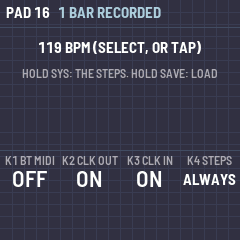
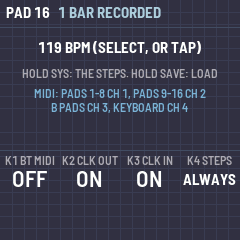
0.32: MIDI out on four fixed channels (pads 1-8 on 1, 9-16 on 2, B pads on 3, keyboard on 4); MIDI page gone, FX free
Claude-Session: https://claude.ai/code/session_011auXBbJuCRdHVG1fENKT8m

Changed region(s): [[0.1167, 0.35, 0.875, 0.4667]]

diff --git a/app/app.c b/app/app.c
@@ -4,24 +4,24 @@
  * As MPS-16 ver WEB's SEED, one job a button. The 16 white keys (A pads): 1-8 your key's chords, 9-16 progressions.
  * The first 7 black keys (B pads): the notes of the key, lit by the chord you played (the bass bright). The last 4
  * (C pads): BASS, NO BASS, NO ROOT, TAP. HOME (held: SHIFT), EDIT pick notes, SEL the library, ENV pad edit, LFO
- * LOCK, FX MIDI, SYS setup (held: COACH), PLAY stop (SHIFT: clear the pads), ARP UNDO, SEQ LATCH, REC, SAVE (held:
- * LOAD), OCT- / OCT+ the keyboard's octave. MIDI out over USB and Bluetooth, five sections on their own channels,
- * any pad on its own, MIDI clock out and in.
+ * LOCK, SYS setup (held: COACH), PLAY stop (SHIFT: clear the pads), ARP UNDO, SEQ LATCH, REC, SAVE (held:
+ * LOAD), OCT- / OCT+ the keyboard's octave. FX: free. MIDI out over USB and Bluetooth on four fixed channels: pads
+ * 1-8 on 1, pads 9-16 on 2, the B pads on 3, the keyboard on 4. MIDI clock out and in.
  *
  * Part of the unity build (device/unity.c, host/plat_host.c), after the platform: gfx.c and announce.c are in
  * scope. */
 #include "fastmath.h"
 
 /* ================================================================ settings === */
-#define SET_MAGIC 0x32444553u            /* "SED2" */
+#define SET_MAGIC 0x33444553u            /* "SED3" */
 enum { BM_BASS, BM_NOBASS, BM_NOROOT, BM_N };
 enum { PL_CHORD, PL_STRUM, PL_ARP, PL_STABS, PL_N };
 enum { CO_OFF, CO_FIRST, CO_ALWAYS, CO_N };
-/* the MIDI sections, as the web's: pads 1-8, pads 9-16, the B pads, the keys in PICK NOTES, LIB's previews */
-enum { MS_CHORDS, MS_PROGS, MS_BPADS, MS_PICK, MS_LIB, MS_N };
-#define CH_OFF 16u                       /* a channel: 0 .. 15, or off (no MIDI out) */
-#define CH_NONE 0xFFu                    /* a pad's own channel: none, its section's */
-#define NOVR 23u                         /* own channels: the 16 A pads, the 7 B pads */
+/* MIDI out, fixed: pads 1-8 on 1, pads 9-16 on 2, the B pads on 3, the keyboard (PICK NOTES, LIB) on 4 */
+#define CH_PADS1 0u
+#define CH_PADS2 1u
+#define CH_BPADS 2u
+#define CH_KEYS 3u
 typedef struct {
     uint32_t magic;
     uint8_t root;                        /* 0 = C .. 11 = B */
@@ -36,8 +36,6 @@ typedef struct {
     uint8_t coach, coach_seen, coach_set;   /* COACH: CO_*, been through once, the choice made */
     uint8_t ble;                         /* Bluetooth MIDI on */
     uint8_t clk_out, clk_in;             /* MIDI clock: sent at the BPM; followed when it comes in */
-    uint8_t ch[MS_N];                    /* each section's channel, 0 .. 15 or CH_OFF */
-    uint8_t ovr[NOVR];                   /* a pad's own channel, or CH_NONE */
     uint8_t rsv[3];
 } settings_t;
 static settings_t set;
@@ -45,7 +43,6 @@ static uint8_t set_dirty;
 
 static void settings_defaults(void)
 {
-    uint32_t i;
     __builtin_memset(&set, 0, sizeof set);
     set.magic = SET_MAGIC;
     set.root = 0;                        /* C major */
@@ -59,13 +56,6 @@ static void settings_defaults(void)
     set.ble = 1;
     set.clk_out = 1;
     set.clk_in = 1;
-    set.ch[MS_CHORDS] = 0;               /* chords on 1, progressions on 2: two synths if you like */
-    set.ch[MS_PROGS] = 1;
-    set.ch[MS_BPADS] = 2;
-    set.ch[MS_PICK] = 3;
-    set.ch[MS_LIB] = 3;
-    for (i = 0; i < NOVR; i++)
-        set.ovr[i] = CH_NONE;
 }
 
 /* ================================================================== theory === */
@@ -552,13 +542,11 @@ static void voice_off(uint32_t note)
 static volatile uint32_t tempo = 90;
 static volatile uint32_t clock_smp;      /* the audio clock, in samples */
 
-/* MIDI out, over USB and Bluetooth: ch CH_OFF sends nothing (the FM-1's own sound still plays) */
+/* MIDI out, over USB and Bluetooth */
 static uint32_t midi_to(void) { return TO_USB | (set.ble ? TO_BLE : 0u); }
 static uint8_t ch_last;
 static void midi_note(uint32_t on, uint32_t ch, uint32_t m, uint32_t v)
 {
-    if (ch >= CH_OFF)
-        return;
     ch_last = (uint8_t)ch;
     plat_midi_send((on ? 0x09u | (0x90u | ch) << 8 | m << 16 | v << 24 : 0x08u | (0x80u | ch) << 8 | m << 16),
                    midi_to());
@@ -573,11 +561,9 @@ static void out_off(uint32_t m, uint32_t ch)
     voice_off(m);
     midi_note(0, ch, m, 0);
 }
-static uint32_t pad_ch(uint32_t i)       /* an A pad's channel: its own, else its section's */
+static uint32_t pad_ch(uint32_t i)       /* pads 1-8 on 1, 9-16 on 2; LIB's preview (i = NPADS) on the keyboard's */
 {
-    if (i >= NPADS)
-        return set.ch[MS_LIB];
-    return set.ovr[i] != CH_NONE ? set.ovr[i] : set.ch[i < 8u ? MS_CHORDS : MS_PROGS];
+    return i >= NPADS ? CH_KEYS : i < 8u ? CH_PADS1 : CH_PADS2;
 }
 
 /* REC: what you play, from the main loop and from MIDI in, with the audio clock */
@@ -1055,7 +1041,7 @@ static void pad_release_rec(uint32_t i)   /* REC: a chord pad let go */
 }
 
 /* ======================================================================= UI === */
-enum { SCR_HOME, SCR_PICK, SCR_LIB, SCR_PAD, SCR_MIDI, SCR_SETUP };
+enum { SCR_HOME, SCR_PICK, SCR_LIB, SCR_PAD, SCR_SETUP };
 enum { CS_NONE, CS_CHOOSE, CS_NOTES, CS_SCALE, CS_PADS, CS_BASS, CS_SHAPE, CS_CPADS, CS_DONE };
 enum { RS_OFF, RS_PICK, RS_COUNT, RS_REC };
 static struct {
@@ -1070,11 +1056,10 @@ static struct {
     uint32_t co_at, boot_at;
     uint8_t rs, rpad;                    /* REC: the state, the pad it records into */
     uint32_t r_t0, r_click;              /* REC: the take's start (samples), the next click (samples) */
-    int32_t m_sel;                       /* MIDI: the pad or key picked for its own channel (0-15 A, 16-22 B), -1 */
     uint32_t tap[4];                     /* TAP: the last taps */
     uint8_t tap_n;
     uint8_t lib_t, lib_sel;              /* LIB: the type shown (NCTYPES: the progressions), the pick */
-} ui = {.pad = -1, .m_sel = -1, .lib_t = 1};
+} ui = {.pad = -1, .lib_t = 1};
 static uint32_t btn_now;                 /* the buttons held this frame */
 static int shift(void) { return (int)(btn_now >> B_HOME & 1u); }   /* HOME held: SHIFT */
 
@@ -1525,24 +1510,6 @@ static void ap_plays(uint32_t i) { pfx[i].plays = set.plays; (void)all_d; }
 static void ap_human(uint32_t i) { pfx[i].human = set.human; }
 static void ap_len(uint32_t i) { pfx[i].len = set.len; }
 static void ap_oct(uint32_t i) { pfx[i].oct = (int8_t)clamp(pfx[i].oct + all_d, -2, 2); }
-static const char *ch_name(uint32_t c, char *t)   /* "CH 3", "OFF", "SECTION" */
-{
-    if (c == CH_NONE)
-        str_set(t, "SECTION", 12);
-    else if (c >= CH_OFF)
-        str_set(t, "OFF", 12);
-    else {
-        str_set(t, "CH ", 12);
-        num_text((int32_t)c + 1, t + 3, 0);
-    }
-    return t;
-}
-static uint32_t ch_step(uint32_t c, int32_t d, int own)   /* 0 .. 15, OFF (and NONE first, for a pad's own) */
-{
-    int32_t v = c == CH_NONE ? -1 : (int32_t)c;
-    v = clamp(v + d, own ? -1 : 0, (int32_t)CH_OFF);
-    return v < 0 ? CH_NONE : (uint32_t)v;
-}
 
 static void input(void)
 {
@@ -1566,7 +1533,7 @@ static void input(void)
             if ((keys & bit) && !(ui.keys & bit)) {
                 uint8_t m = (uint8_t)clamp(53 + (int32_t)k, 0, 127);
                 uint32_t vel = touch_vel(k);
-                notes_on(k, &m, 1, vel ? vel : 100u, set.ch[MS_PICK]);
+                notes_on(k, &m, 1, vel ? vel : 100u, CH_KEYS);
                 fd_toggle(m % 12u);
                 coach_event(CE_NOTE);
                 ui.redraw = 1;
@@ -1585,8 +1552,6 @@ static void input(void)
                 ui.redraw = 1;
                 continue;
             }
-            if (ui.screen == SCR_MIDI)
-                ui.m_sel = (int32_t)i;
             if (ui.screen == SCR_LIB) {  /* LIB: the pick goes onto the pad */
                 char t[24];
                 if (desc[i].lock) {
@@ -1633,9 +1598,7 @@ static void input(void)
         if ((keys & bit) && !(ui.keys & bit)) {
             uint8_t m = (uint8_t)clamp(deg_pitch((int32_t)i), 0, 127);
             uint32_t vel = touch_vel(k);
-            notes_on(k, &m, 1, vel ? vel : 100u, set.ovr[16u + i] != CH_NONE ? set.ovr[16u + i] : set.ch[MS_BPADS]);
-            if (ui.screen == SCR_MIDI)
-                ui.m_sel = 16 + (int32_t)i;
+            notes_on(k, &m, 1, vel ? vel : 100u, CH_BPADS);
             coach_event(CE_BPAD);
             ui.redraw = 1;
         } else if (!(keys & bit) && (ui.keys & bit))
@@ -1709,7 +1672,6 @@ buttons:
                         rec_on = 0;
                     }
                     ui.screen = SCR_HOME;
-                    ui.m_sel = -1;
                 }
                 ui.home_at = 0;
             }
@@ -1802,9 +1764,6 @@ buttons:
                 app_say(t, desc[ui.pad].lock ? "LOCKED: KEPT AS IT IS" : "UNLOCKED");
                 set_dirty = 1;
             }
-        } else if (i == B_FX) {          /* MIDI */
-            ui.screen = ui.screen == SCR_MIDI ? SCR_HOME : SCR_MIDI;
-            ui.m_sel = -1;
         } else if (i == B_ARP) {         /* UNDO */
             undo_swap();
         } else if (i == B_SEQ) {         /* LATCH */
@@ -1901,26 +1860,6 @@ buttons:
             if (ek || k1 || k2 || k3 || k4 || es || ea)
                 set_dirty = 1;
             es = k1 = k2 = k3 = k4 = ek = ea = 0;
-        } else if (ui.screen == SCR_MIDI) {
-            int32_t kk[5] = {k1, k2, k3, k4, ek};
-            static const uint8_t SEC[5] = {MS_CHORDS, MS_PROGS, MS_BPADS, MS_PICK, MS_LIB};
-            uint32_t g, q;
-            for (g = 0; g < 5u; g++)
-                if (kk[g]) {             /* a section's channel: its pads' own ones reset */
-                    uint32_t s = SEC[g];
-                    all_notes_off();
-                    set.ch[s] = (uint8_t)ch_step(set.ch[s], kk[g], 0);
-                    for (q = 0; q < NOVR; q++)
-                        if ((s == MS_CHORDS && q < 8u) || (s == MS_PROGS && q >= 8u && q < 16u) || (s == MS_BPADS && q >= 16u))
-                            set.ovr[q] = CH_NONE;
-                    set_dirty = 1;
-                }
-            if (es && ui.m_sel >= 0) {   /* the pad picked: its own channel */
-                all_notes_off();
-                set.ovr[ui.m_sel] = (uint8_t)ch_step(set.ovr[ui.m_sel], es, 1);
-                set_dirty = 1;
-            }
-            es = k1 = k2 = k3 = k4 = ek = 0;
         } else if (ui.screen == SCR_SETUP) {
             if (k1) {
                 set.ble = (uint8_t)(k1 > 0);
@@ -2063,13 +2002,6 @@ static void lights(void)
                 bright |= bit;
             continue;
         }
-        if (ui.screen == SCR_MIDI) {     /* pads with their own channel full, the picked one blinking */
-            if ((int32_t)i == ui.m_sel ? blink : set.ovr[i] != CH_NONE)
-                bright |= bit;
-            else
-                dim |= bit;
-            continue;
-        }
         if ((ui.keys & bit) || pl[i].on || cp[i].on)
             bright |= bit;
         else if (ui.screen == SCR_LIB)
@@ -2086,12 +2018,7 @@ static void lights(void)
         cur_t c = cur_chord();
         for (i = 0; i < 7u; i++) {
             uint32_t bit = 1u << BK[i], pc = deg_pc((int32_t)i);
-            if (ui.screen == SCR_MIDI) {
-                if (16 + (int32_t)i == ui.m_sel ? blink : set.ovr[16u + i] != CH_NONE)
-                    bright |= bit;
-                else
-                    dim |= bit;
-            } else if (ui.keys & bit)
+            if (ui.keys & bit)
                 bright |= bit;
             else if (c.ok && pc == c.bass) {
                 if (c.bass_on || blink)
@@ -2124,7 +2051,7 @@ static void lights(void)
         btn |= 1u << B_ARP;
     if (ui.rs == RS_REC || ((ui.rs == RS_PICK || ui.rs == RS_COUNT) && blink))
         btn |= 1u << B_REC;
-    btn |= 1u << (ui.screen == SCR_LIB ? B_SEL : ui.screen == SCR_PAD ? B_ENV : ui.screen == SCR_MIDI ? B_FX
+    btn |= 1u << (ui.screen == SCR_LIB ? B_SEL : ui.screen == SCR_PAD ? B_ENV
                   : ui.screen == SCR_SETUP ? B_GLO : B_HOME);
     plat_lights(btn | ui.btn, bright, 0, dim, 1);
     plat_lights_mid(0, mid);
@@ -2528,44 +2455,6 @@ static void draw_pad(void)               /* PAD EDIT, as the web's pad edit wind
     cv_blit(0, 120);
 }
 
-static void draw_midi(void)
-{
-    static const char *const SN[5] = {"PRESET  LIB PREVIEWS", "K1  PADS 1 TO 8", "K2  PADS 9 TO 16",
-                                      "K3  B PADS", "K4  PICK NOTES"};
-    static const uint8_t SEC[5] = {MS_LIB, MS_CHORDS, MS_PROGS, MS_BPADS, MS_PICK};
-    uint32_t i;
-    char t[24], c[12];
-    lab_begin();
-    top_bar("MIDI", WATER_C);
-    text_c(32, &FONT_XS, set.ble ? "OUT OVER USB AND BLUETOOTH" : "OUT OVER USB (BLUETOOTH OFF: SYS)", LAB_LABEL);
-    if (ui.m_sel >= 0) {
-        if (ui.m_sel < 16) {
-            str_set(t, "PAD ", sizeof t);
-            num_text(ui.m_sel + 1, t + 4, 0);
-        } else {
-            str_set(t, "B PAD ", sizeof t);
-            num_text(ui.m_sel - 15, t + 6, 0);
-        }
-        text_c(48, &FONT_M, t, C_WHITE);
-        str_set(t, "SELECT: ", sizeof t);
-        text_cat(t, ch_name(set.ovr[ui.m_sel], c));
-        text_c(78, &FONT_B, t, FIRE_C);
-    } else {
-        text_c(50, &FONT_B, "TAP A PAD OR KEY", C_WHITE);
-        text_c(70, &FONT_XS, "TO GIVE IT ITS OWN CHANNEL (SELECT)", LAB_LABEL);
-    }
-    cv_blit(0, 0);
-    lab_begin();
-    for (i = 0; i < 5u; i++) {
-        int32_t y = 4 + (int32_t)i * 23;
-        cv_text(8, y + 2, &FONT_B, SN[i], C_WHITE);
-        ch_name(set.ch[SEC[i]], c);
-        cv_rect(170, y, 66, 20, set.ch[SEC[i]] >= CH_OFF ? ES_SLATE : WATER_C);
-        cv_text(170 + (66 - text_w(&FONT_B, c)) / 2, y + 2, &FONT_B, c, set.ch[SEC[i]] >= CH_OFF ? C_WHITE : ES_INK);
-    }
-    cv_blit(0, 120);
-}
-
 static int clock_ext(void) { return set.clk_in && clk_seen && clock_smp - clk_seen < 22050u; }
 static void draw_setup(void)
 {
@@ -2577,6 +2466,8 @@ static void draw_setup(void)
     text_cat(t, clock_ext() ? " BPM, FROM CLOCK IN" : " BPM (SELECT, OR TAP)");
     text_c(40, &FONT_B, t, C_WHITE);
     text_c(66, &FONT_XS, "HOLD SYS: THE STEPS. HOLD SAVE: LOAD", LAB_LABEL);
+    text_c(86, &FONT_XS, "MIDI: PADS 1-8 CH 1, PADS 9-16 CH 2", WATER_C);
+    text_c(100, &FONT_XS, "B PADS CH 3, KEYBOARD CH 4", WATER_C);
     cv_blit(0, 0);
     lab_begin();
     str_set(v[0], set.ble ? "ON" : "OFF", sizeof v[0]);
@@ -2650,12 +2541,9 @@ void app_init(void)
     pal[4] = RGB(0xFF, 0xFF, 0xFF);
     {
         int got = plat_store_load(OBJ_SETTINGS, &set, sizeof set);
-        uint32_t i, bad = 0;
-        for (i = 0; i < MS_N; i++)
-            bad |= set.ch[i] > CH_OFF;
         if (got != (int)sizeof set || set.magic != SET_MAGIC || set.root > 11u || set.scale >= NSCALES ||
             set.octave < -2 || set.octave > 2 || set.type >= NCTYPES || set.plays >= PL_N || set.bassm >= BM_N ||
-            set.human > 50u || set.len < -5 || set.len > 5 || set.bpm < 40u || set.bpm > 240u || set.coach >= CO_N || bad)
+            set.human > 50u || set.len < -5 || set.len > 5 || set.bpm < 40u || set.bpm > 240u || set.coach >= CO_N)
             settings_defaults();
     }
     tempo = set.bpm;
@@ -2733,8 +2621,6 @@ void app_frame(void)
             draw_lib();
         else if (ui.screen == SCR_PAD && ui.pad >= 0)
             draw_pad();
-        else if (ui.screen == SCR_MIDI)
-            draw_midi();
         else if (ui.screen == SCR_SETUP)
             draw_setup();
         else {
@@ -2812,10 +2698,6 @@ int app_expect(const char *what, int *got)
         *got = desc[atoi(what + 3) % NPADS].src;
     else if (!strncmp(what, "inv", 3))
         *got = pfx[atoi(what + 3) % NPADS].inv;
-    else if (!strncmp(what, "ovr", 3))
-        *got = set.ovr[atoi(what + 3) % NOVR];
-    else if (!strncmp(what, "secch", 5))
-        *got = set.ch[atoi(what + 5) % MS_N];
     else
         return 0;
     return 1;

diff --git a/app/docs/MANUAL.md b/app/docs/MANUAL.md
@@ -147,21 +147,16 @@ ARP to undo.
 
 ## 9. MIDI and SETUP
 
-![MIDI](img/seed-midi.png)
+MIDI goes out over **USB** and **Bluetooth** (the FM-1's TRS jack is MIDI in only), on four fixed channels:
 
-MIDI goes out over **USB** and **Bluetooth** (the FM-1's TRS jack is MIDI in only). **FX** opens MIDI: five sections,
-as on the web, each on its own channel (1 to 16, or OFF):
+| Channel | What |
+|---|---|
+| 1 | Pads 1 to 8 (chords) |
+| 2 | Pads 9 to 16 (progressions) |
+| 3 | B pads |
+| 4 | The keyboard: PICK NOTES and LIB previews |
 
-| Knob | Section | Starts on |
-|---|---|---|
-| K1 | Pads 1 to 8 (chords) | 1 |
-| K2 | Pads 9 to 16 (progressions) | 2 |
-| K3 | B pads | 3 |
-| K4 | PICK NOTES | 4 |
-| PRESET | LIB previews | 4 |
-
-Tap any pad or B pad on this page and turn **SELECT** to give just that one its own channel. Turning a section's
-knob puts its pads back on the section's channel. **PLAY** sends all notes off on every channel.
+Set your synths to listen on those. SETUP shows the map too. **PLAY** sends all notes off on every channel.
 
 ![SETUP](img/seed-setup.png)
 
@@ -180,7 +175,7 @@ knob puts its pads back on the section's channel. **PLAY** sends all notes off o
 | SEL | LIB |
 | ENV | PAD EDIT |
 | LFO | LOCK |
-| FX | MIDI |
+| FX | Free for now |
 | SYS (GLO) | Tap: SETUP. Hold: COACH |
 | PLAY | Stop, all notes off. SHIFT: clear the pads. In PICK NOTES: use the scale. In LIB: hear it |
 | ARP | UNDO |
